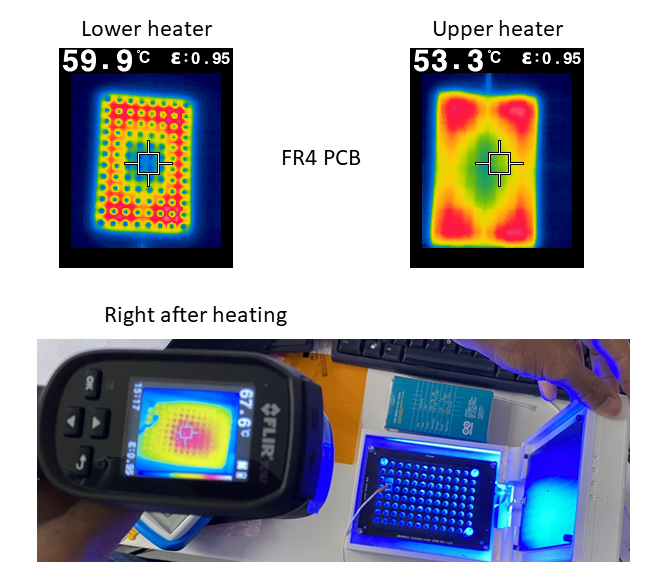
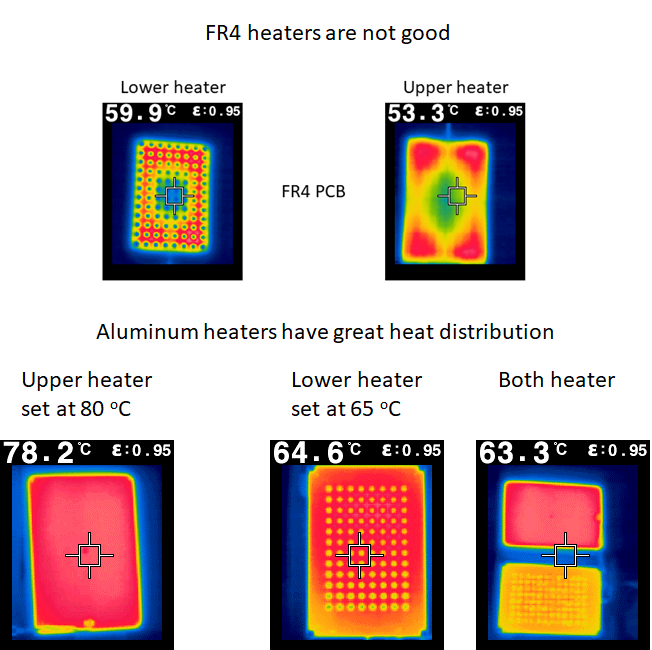
add heat distribution

diff --git a/README.md b/README.md
@@ -1,5 +1,6 @@
 Miriam
 ========
+**HOT!!!** The new [BOM list](https://docs.google.com/spreadsheets/d/1jToRLCrUTaD4QrNjGMmmIuaWwqO89PiL6eRc0J-1mlM/edit?usp=sharing) of the Covid-19 adapted Miriam is updated constantly during our test.
 
 [![License](https://i.creativecommons.org/l/by-sa/3.0/80x15.png?style=flat-square)](http://creativecommons.org/licenses/by-sa/3.0/)
 
@@ -60,7 +61,7 @@ To control the heating of Miriam there are two heater PCBs. They have been desig
 
 ![](FR4_heater.png)
 
-**Figure 5a.** The distribution of heat in the FR4 heaters. After heating, the temperature difference of the middle wells and the side ones can vary from 10 to 20 degrees C.
+**Figure 5a.** The distribution of heat in the FR4 and Al heaters. FR4 heaters may work with small number of wells setup. For Miriam, we recommend using Al boards for better heat distribution.
 
 The detection of fluorescence is done with 96 LEDs and 96 photodiodes creating LED and photodiode PCBs. The LED peak wavelength is 470 nm and photodiode is a green RGB photodiode. The measured voltage is amplified with an operational amplifier to 0-5 V that is then converted by Arduino’s 8-bit ADC to be a numerical value. (figure 6.)
 
@@ -90,6 +91,7 @@ The wiring problem of original sensor board has been fixed in this new version.
 
 Credits
 --------
-Miriam is an open source project, supported by Miroculus in collaboration with Arduino (Sweden). The team is led by Juho Terrijarvi.
+The original Miriam is an open source project, supported by Miroculus in collaboration with Arduino (Sweden). The team is led by Juho Terrijarvi.
 
+This version of Miriam plus has been improved by Strawlab to make it work with Syto-9 + DNA for potentially Covid-19 test.
 Icon and image designed by Miroculus.
